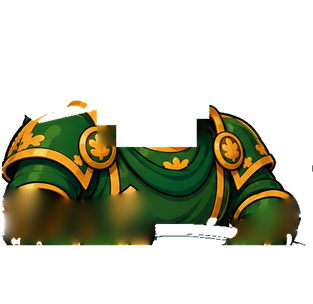
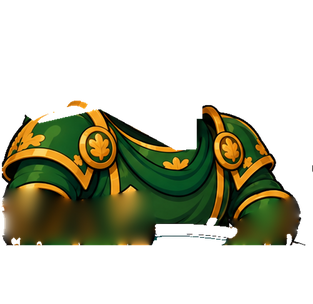
Green Knight: no seam through his shoulders, no paper in the holly; no hairline at the rail
The master helm carried the face sheet's shoulders, which made a seam
through both roundels: it keeps only the helm now, and the body loses only
its own helm's outline. The holly drops the sheet's white and grey between
its twigs. And the stage drew a figure above its own line only, so where the
rim runs below that line (near the table's ends) neither pass drew him and a
hairline of the rail showed through his forearm: the table covers a figure
only below both, as web/puppet/README.md says.

Claude-Session: https://claude.ai/code/session_01XVyyQGg3Db8jrrcW1ZjGyp

Changed region(s): [[0.2875, 0.3553, 0.6326, 0.5033], [0.6326, 0.3257, 0.6901, 0.4145], [0.6326, 0.4441, 0.6613, 0.4737]]

diff --git a/web/puppet/stage.ts b/web/puppet/stage.ts
@@ -103,6 +103,7 @@ export class Stage {
   private gutters: number[][] = []
   private clock = 0
   private rimPath: Path2D
+  private aboveRim: Path2D
   /** Clips play at this rate (the presentation clock's pace); the face and idles never change speed. */
   speed = 1
   /** Reduce motion: no sway or breath. */
@@ -123,6 +124,13 @@ export class Stage {
     p.lineTo(xs[xs.length - 1], 5000)
     p.closePath()
     this.rimPath = p
+    // the region above the rim, wound the way a rect is, so the two add up
+    const q = new Path2D()
+    q.moveTo(xs[xs.length - 1], -5000)
+    for (let i = xs.length - 1; i >= 0; i--) q.lineTo(xs[i], r.y[i] ?? 5000)
+    q.lineTo(xs[0], -5000)
+    q.closePath()
+    this.aboveRim = q
   }
 
   /** The seats this room has chairs for: one spot per opponent at this count. */
@@ -431,13 +439,15 @@ export class Stage {
       set(D)
       ctx.drawImage(this.table, d.table.x, d.table.y, d.table.w, d.table.h)
     }
-    // each puppet above its own line, over the table
+    // each puppet above its own line, or above the rim where the rim runs below
+    // that line (near the table's ends), over the table: the table covers him
+    // only below both, or a hairline of the rail shows through a forearm
     order.forEach((a, i) => {
       ctx.save()
       set(D)
-      ctx.beginPath()
-      ctx.rect(-5000, -5000, 10000, a.line + 5000)
-      ctx.clip()
+      const above = new Path2D(this.aboveRim)
+      above.rect(-5000, -5000, 10000, a.line + 5000)
+      ctx.clip(above)
       ctx.globalAlpha = a.fade
       a.player.puppet.paint(ctx, views[i])
       ctx.restore()

diff --git a/art-tools/pose_rig.py b/art-tools/pose_rig.py
@@ -114,7 +114,7 @@ mouth), so a clip can tilt it; it is cut from the body and from frames' heads.
 shoulder); "saturated": n cuts it by colour inside its poly (her feathers,
 brighter than his coat, filled and grown by "outline" for her outline; or
 "redder": k, red above k times green: Merlin's staff against his robe;
-"drop_white" clears the sheet's white caught inside it; "close": n closes gaps
+"drop_white" clears the sheet's white caught inside it (a number: only pieces that big, so a berry's highlight stays); "close": n closes gaps
 of up to 2n pixels, the dark grooves of a twisted staff; "keep_skin" keeps
 colours the skin test would drop: its orange highlights), plus
 "also" polygons taken whatever their colour (her beak and feet).
@@ -649,6 +649,13 @@ def main(spec_path):
         prgba[..., 3] = np.where(pm_, src[..., 3], 0)
         if pr.get('drop_white'):                           # the sheet's white inside its loops (a knotted staff)
             wh = poly_mask(shape, pr['poly']) & (((c.min(-1) > 215)) | ((c.min(-1) > 175) & (np.ptp(c, axis=-1) < 25)))
+            if pr['drop_white'] is not True:               # a number: only pieces that big (a berry's highlight stays),
+                grey = ((c.min(-1) > 100) & (np.ptp(c, axis=-1) < 25)) | ((c.min(-1) > 45) & (np.ptp(c, axis=-1) < 14))
+                wh |= poly_mask(shape, pr['poly']) & grey  # its grey edge too
+                lab_, n_ = ndimage.label(wh)
+                if n_:
+                    wh = np.isin(lab_, 1 + np.nonzero(ndimage.sum(wh, lab_, range(1, n_ + 1)) >= pr['drop_white'])[0])
+                    wh = ndimage.binary_dilation(wh, iterations=1) & poly_mask(shape, pr['poly']) & ((c.min(-1) > 150) | grey)
             prgba[..., 3] = np.where(wh, 0, prgba[..., 3])
             body[..., 3] = np.where(wh, 0, body[..., 3])
         head_props[pname] = (prgba, ndimage.binary_dilation(pm_, iterations=2))

diff --git a/art-tools/green_knight_parts/README.md b/art-tools/green_knight_parts/README.md
@@ -44,3 +44,11 @@ stay, and `seam_fill` puts back a short run cut across an arm. The far rest
 gauntlet has a `restore` box where the rail runs into its gold band;
 `lost_pot` has an `inpaint` box over the white shock strokes on his chest;
 `rail_clean_w` 200 keeps rail_clean off his gauntlet bands in the reactions.
+
+**The helm and his shoulders.** The master helm comes from the face sheet,
+which drew his shoulders a little differently, so its lower edge made a seam
+through both roundels. The master keeps only the helm (`keep_poly`), and the
+body loses only the rest pose's own helm (`head_poly`, not the head box), so
+the shoulder plates are the body's own and whole. The holly drops the sheet's
+white and grey between its twigs (`drop_white`: 12, pieces that size or more,
+so a berry's highlight stays).
